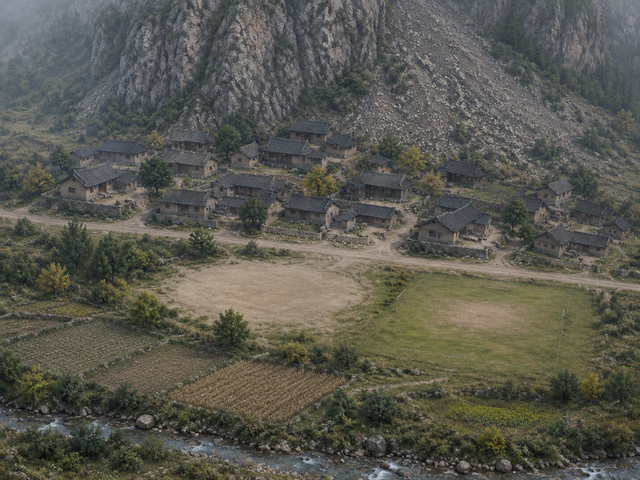
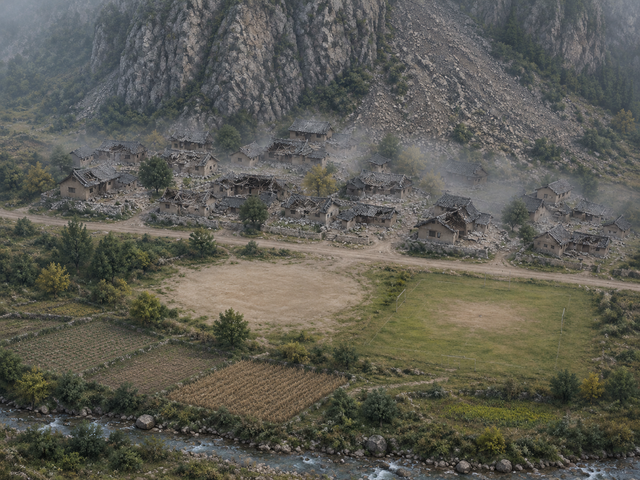
feat: rework quake PIC3 houses and realign debris flow masks
- quake PIC3: houses redrawn collapsed and damaged with low dust haze
  (AI edit masked to the village, composited back over the original)
- debris PIC3/PIC4 bed starts where the stream leaves the fog and hugs it;
  the runout covers everything below the fan down to the bottom edge
- debris PIC2 slurry runs over the road and bridge and off screen
- PIC1 source-area outline follows the bed
- prepare_debris_village: masks can be rebuilt without the source photos

Changed region(s): [[0.0625, 0.2188, 1.0, 0.5625]]

diff --git a/tools/mountain_port/scenes/debris_village/prepare_debris_village.py b/tools/mountain_port/scenes/debris_village/prepare_debris_village.py
@@ -22,13 +22,15 @@ HERE = Path(__file__).resolve().parent
 W, H = 640, 480
 # PIC2 gully bed, left and right edge per row (y, x_left, x_right).
 BED2 = [(0, 296, 350), (80, 290, 364), (160, 282, 374), (240, 280, 384), (320, 270, 404),
-        (400, 250, 436), (440, 236, 474), (470, 232, 480)]
-# PIC1/3/4 gully bed above the mouth.
-BED1 = [(30, 328, 368), (120, 336, 388), (200, 348, 402), (270, 352, 412)]
-# PIC3/4 runout fan below the mouth (clockwise), then the channel past the bridge.
+        (400, 250, 436), (440, 236, 474), (462, 228, 488), (480, 220, 500)]   # over the road and bridge, off screen
+# PIC1/3/4 gully bed above the mouth: starts where the stream leaves the fog.
+BED1 = [(52, 340, 352), (80, 338, 362), (120, 340, 378), (160, 350, 388), (200, 356, 396),
+        (270, 360, 404)]
+# PIC3/4 runout fan below the mouth (clockwise), then everything below it past the
+# bridge down to the bottom edge.
 FAN = [(352, 266), (412, 266), (446, 282), (482, 302), (516, 326), (532, 360), (506, 396), (456, 414),
        (400, 418), (344, 412), (300, 400), (262, 382), (248, 348), (262, 314), (300, 286)]
-BELOW = [(392, 412), (440, 412), (448, 480), (396, 480)]
+BELOW = [(290, 396), (510, 392), (524, 436), (536, 480), (262, 480), (274, 436)]
 
 
 def bed_polygon(rows, grow=0):
@@ -60,13 +62,17 @@ def main():
         if abs(w * 3 - h * 4) > 4:
             raise SystemExit(f'PIC{n}.png is {w}x{h}, expected 4:3')
         im.resize((W, H), Image.LANCZOS).save(HERE / f'pic{n}.png')
+    make_masks()
+    print('prepared pic1-4, flow_mask, bank_mask, fan_mask, channel_mask')
+
+
+def make_masks():
     flow = ragged(poly_mask(bed_polygon(BED2, 4)), 3, 0.6, 8, 51)
     flow.save(HERE / 'flow_mask.png')
     bank = np.asarray(ragged(poly_mask(bed_polygon(BED2, 18)), 4, 0.9, 6, 53)) & ~np.asarray(flow)
     Image.fromarray(bank).save(HERE / 'bank_mask.png')
     ragged(poly_mask(FAN, BELOW), 8, 0.9, 16, 55).save(HERE / 'fan_mask.png')
     ragged(poly_mask(bed_polygon(BED1, 3)), 3, 0.5, 8, 57).save(HERE / 'channel_mask.png')
-    print('prepared pic1-4, flow_mask, bank_mask, fan_mask, channel_mask')
 
 
 if __name__ == '__main__':
